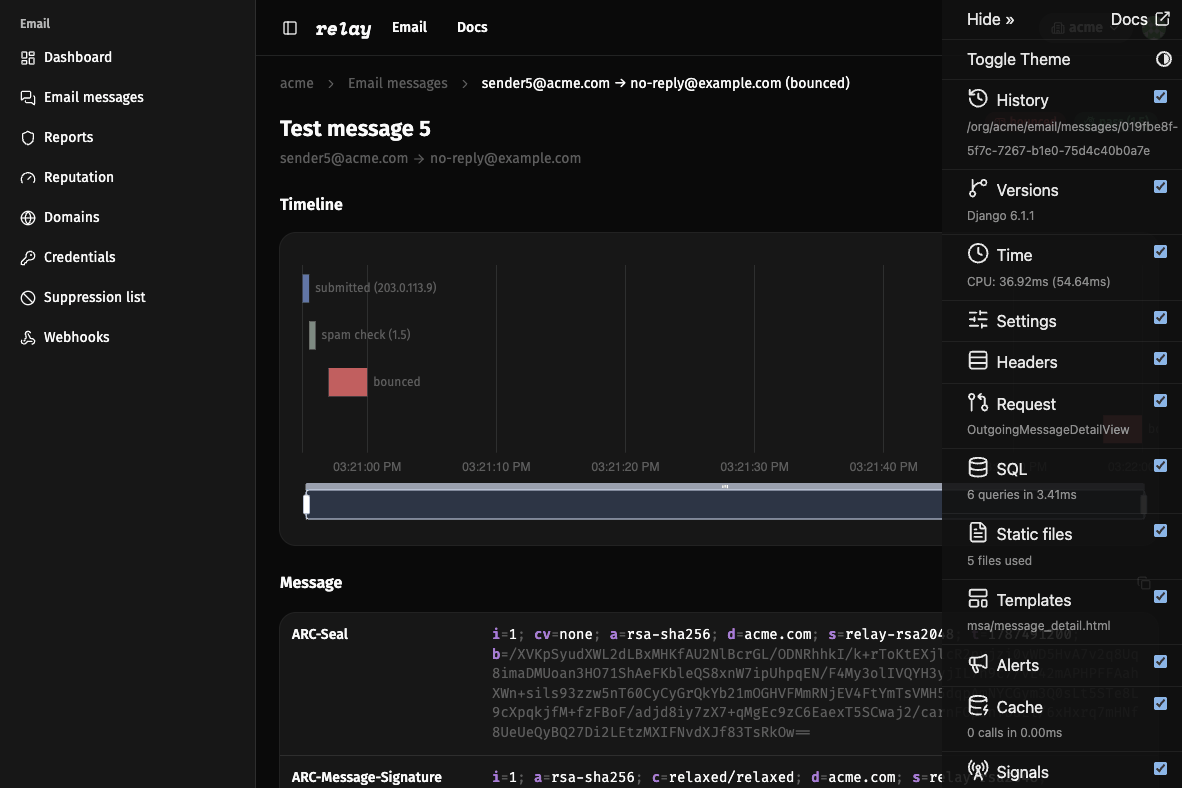
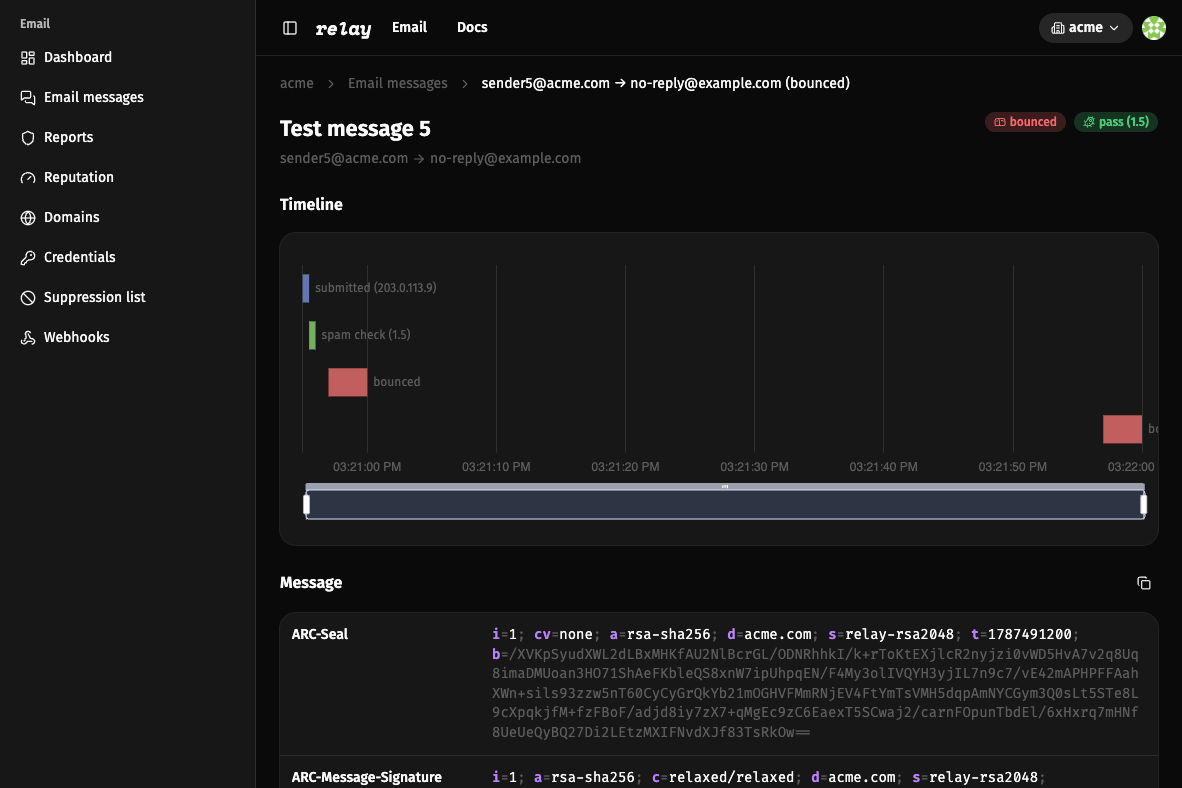
Retake detail screenshots without the cached toolbar
The detail views answer conditional GETs with a stable ETag, so the browser reused stale HTML that still contained the debug toolbar and the recaptured detail screenshots kept the panel. Capture with the cache disabled and harden the toolbar callback: match automation markers case-insensitively and cover Playwright and Puppeteer user agents.

diff --git a/root/settings.py b/root/settings.py
@@ -61,10 +61,13 @@ INTERNAL_IPS = ["127.0.0.1"]
 def show_debug_toolbar(request):
     # Headless browsers (e.g. Playwright MCP) get clean pages without the
     # toolbar markup, so screenshots show the UI as users see it.
+    agent = request.META.get("HTTP_USER_AGENT", "").lower()
     return (
         DEBUG
         and request.META.get("REMOTE_ADDR") in INTERNAL_IPS
-        and "HeadlessChrome" not in request.META.get("HTTP_USER_AGENT", "")
+        and "headless" not in agent
+        and "playwright" not in agent
+        and "puppeteer" not in agent
     )
 
 

diff --git a/AGENTS.md b/AGENTS.md
@@ -115,6 +115,11 @@ Playwright MCP (`.mcp.json`) runs headless and writes screenshots to
 `.playwright-mcp/`. The dev server binds to a random localhost port. Read
 it from the `runserver` output, then navigate to `http://localhost:<port>`.
 
+Disable the browser cache before capturing screenshots
+(`Network.setCacheDisabled` via CDP). Conditional-get views answer
+revalidations with `304`, so the browser would otherwise reuse stale
+HTML that still contains the debug toolbar.
+
 ## Test data
 
 Bundle: one user (`test`, password `test`), one org (`acme`), one
